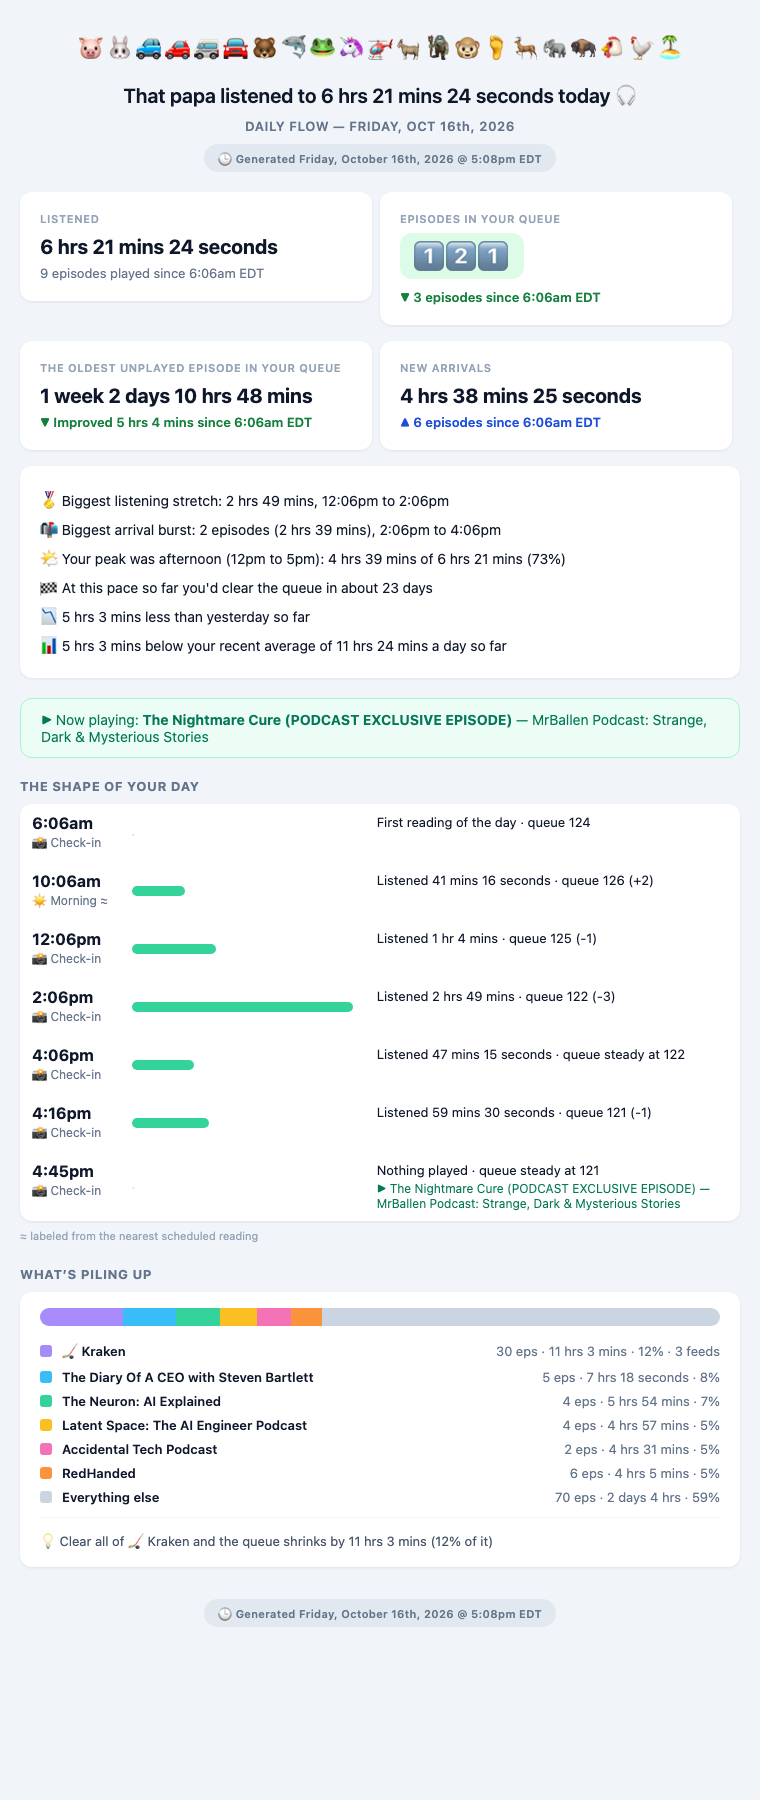
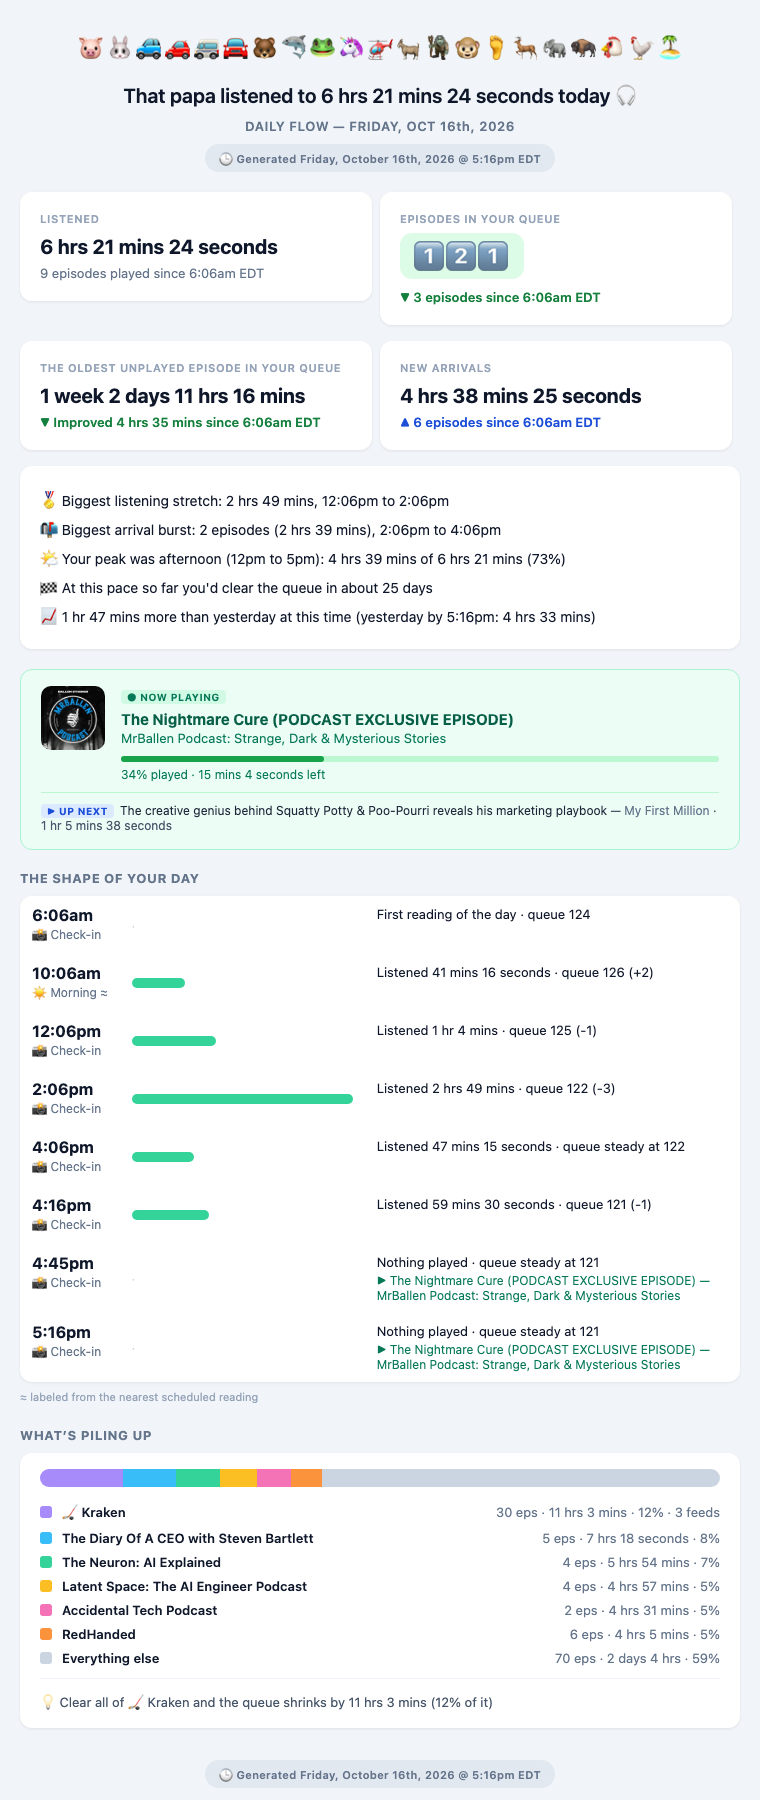
Flow web report: a richer Now playing card, and comparisons at the same time of day
Now playing gets the artwork, a linked title and show, a progress bar with
time left, and Up next. The yesterday and usual-pace lines compare with earlier
days at the same point in the day instead of against their whole days, and an
average is only shown once there are two earlier days to average.

diff --git a/flow.py b/flow.py
@@ -113,7 +113,14 @@ def snapshot_from_run(d, label, source="live"):
         "played_seconds": int(round(since["total_seconds"])),
     }
     if np:
-        snap["now_playing"] = {"title": np.get("title"), "podcast": np.get("podcast")}
+        snap["now_playing"] = {k: np.get(k) for k in (
+            "title", "podcast", "episode_url", "podcast_url", "artwork_url",
+            "elapsed_seconds", "duration_seconds", "remaining_fmt") if np.get(k) is not None}
+    nxt = rr._next_up_episode(d) if d["queue"].get("episodes") else None
+    if nxt:
+        snap["up_next"] = {k: nxt.get(k) for k in (
+            "title", "podcast", "episode_url", "podcast_url", "artwork_url", "duration_fmt")
+            if nxt.get(k) is not None}
     shows = queue_by_show(d)
     if shows:
         snap["by_show"] = shows
@@ -243,11 +250,14 @@ def summarize_day(history, day, tz=None):
     out["by_part"] = listening_by_part(windows, tz)
     first_dt, last_dt = parse_utc(first["ts"]), parse_utc(last["ts"])
     out["elapsed_hours"] = (last_dt - first_dt).total_seconds() / 3600
-    out["yesterday_listened"], out["recent_average"] = day_context(history, day, tz)
+    out["cutoff_snap"] = last
+    out["yesterday_listened"], out["recent_average"], out["recent_days"] = day_context(
+        history, day, tz, cutoff=day_offset(last, tz))
     shows = [sn for sn in snaps if sn.get("by_show")]
     out["by_show_snapshot"] = shows[-1] if shows else None
     playing = [sn for sn in snaps if sn.get("now_playing")]
     out["now_playing"] = playing[-1]["now_playing"] if playing else None
+    out["up_next"] = (playing[-1].get("up_next") if playing else None)
     return out
 
 
@@ -295,15 +305,28 @@ def listening_by_part(windows, tz=None):
     return sorted(rows, key=lambda r: -r["seconds"])
 
 
-def day_context(history, day, tz=None):
-    """(yesterday's listening, average listening over the 7 days before), each
-    None when there is no data for it."""
+def day_offset(snap, tz=None):
+    """Seconds into the flow day (which starts at 4am local) a reading was taken."""
+    dt = local_dt(snap, tz)
+    start = datetime.datetime.combine(day_of(dt), datetime.time(DAY_STARTS_HOUR), tzinfo=dt.tzinfo)
+    return (dt - start).total_seconds()
+
+
+def day_context(history, day, tz=None, cutoff=None):
+    """How earlier days compare at the same point in the day. Returns
+    (yesterday's listening by `cutoff`, average listening by `cutoff` over the
+    earlier days that have data, how many days that average covers); each None
+    or 0 when there is nothing to compare with. `cutoff` is seconds into the
+    day, so a half-finished day is compared with half-finished days."""
     def listened(d):
         snaps = day_snapshots(history, d, tz)
-        return sum(s["played_seconds"] for s in snaps[1:]) if snaps else None
+        if not snaps:
+            return None
+        return sum(s["played_seconds"] for s in snaps[1:]
+                   if cutoff is None or day_offset(s, tz) <= cutoff)
     yesterday = listened(day - datetime.timedelta(days=1))
     prior = [x for x in (listened(day - datetime.timedelta(days=i)) for i in range(1, 8)) if x is not None]
-    return yesterday, (sum(prior) / len(prior) if prior else None)
+    return yesterday, (sum(prior) / len(prior) if prior else None), len(prior)
 
 
 def week_days(anchor_day):
@@ -542,21 +565,25 @@ def pace_line(s):
                   f"{days:.0f} day{'' if round(days) == 1 else 's'}")
 
 
-def vs_lines(s):
-    """Plain comparisons: against yesterday and against the recent average."""
-    so_far = "" if s["closed"] else " so far"
+def vs_lines(s, tz=None):
+    """Plain comparisons with earlier days at the same point in the day, so a
+    half-finished day is never held against a whole one."""
+    by = f"by {clock(s['cutoff_snap'], tz)}"
     lines = []
     y = s.get("yesterday_listened")
     if y is not None:
         diff = s["listened_seconds"] - y
-        lines.append(("📈" if diff >= 0 else "📉",
-                      f"{dur_n(abs(diff))} {'more' if diff >= 0 else 'less'} than yesterday{so_far}"
-                      if round(diff) else f"Same as yesterday{so_far}"))
-    avg = s.get("recent_average")
-    if avg is not None:
+        if round(diff):
+            lines.append(("📈" if diff > 0 else "📉",
+                          f"{dur_n(abs(diff))} {'more' if diff > 0 else 'less'} than yesterday at this time "
+                          f"(yesterday {by}: {dur_n(y)})"))
+        else:
+            lines.append(("📊", f"Right on yesterday's pace (yesterday {by}: {dur_n(y)})"))
+    avg, n = s.get("recent_average"), s.get("recent_days", 0)
+    if avg is not None and n >= 2:
         diff = s["listened_seconds"] - avg
-        lines.append(("📊", f"{dur_n(abs(diff))} {'above' if diff >= 0 else 'below'} your recent average of "
-                            f"{dur_n(avg)} a day{so_far}"))
+        lines.append(("📊", f"{dur_n(abs(diff))} {'above' if diff >= 0 else 'below'} your usual at this time "
+                            f"(average of {n} days {by}: {dur_n(avg)})"))
     return lines
 
 
@@ -589,7 +616,7 @@ def highlights(s, tz=None):
         out.append(("🤫" if mid_dash else "😴", f"{'Quiet stretch mid-Dash' if mid_dash else 'Nap time'}: {dur_n(span)} with nothing played, "
                           f"{local_dt({'ts': x}, tz).strftime('%-I:%M%p').lower()} to "
                           f"{local_dt({'ts': y}, tz).strftime('%-I:%M%p').lower()}"))
-    for icon, line in vs_lines(s):
+    for icon, line in vs_lines(s, tz):
         out.append((icon, line))
     return out
 
@@ -986,6 +1013,57 @@ def piling_up_html(s):
     )
 
 
+def _link(text, url, color="inherit", weight=None):
+    inner = html.escape(text or "")
+    if not url:
+        return inner
+    style = f"color:{color};text-decoration:none;" + (f"font-weight:{weight};" if weight else "")
+    return f'<a href="{html.escape(url)}" target="_blank" style="{style}">{inner}</a>'
+
+
+def now_playing_card_html(np, up_next=None):
+    """The episode playing right now: artwork, linked title and show, how far
+    through it you are, and what is next."""
+    if not np:
+        return ""
+    art = (f'<img src="{html.escape(np["artwork_url"])}" width="64" height="64" '
+           'style="border-radius:10px;display:block;" alt="">') if np.get("artwork_url") else ""
+    if np.get("artwork_url") and (np.get("episode_url") or np.get("podcast_url")):
+        art = f'<a href="{html.escape(np.get("episode_url") or np.get("podcast_url"))}" target="_blank">{art}</a>'
+    progress = ""
+    dur_s, el_s = np.get("duration_seconds") or 0, np.get("elapsed_seconds") or 0
+    if dur_s > 0:
+        pct = max(0, min(100, 100 * el_s / dur_s))
+        left = np.get("remaining_fmt") or ""
+        progress = (
+            '<div style="height:6px;border-radius:3px;background:#bbf7d0;margin-top:10px;">'
+            f'<div style="height:6px;border-radius:3px;background:#16a34a;width:{pct:.0f}%;"></div></div>'
+            f'<div style="font-size:12px;color:#047857;margin-top:5px;">{pct:.0f}% played'
+            + (f" · {html.escape(left)} left" if left else "") + '</div>'
+        )
+    nxt = ""
+    if up_next and up_next.get("title"):
+        nxt = (
+            '<div style="font-size:12px;color:#475569;margin-top:10px;padding-top:10px;border-top:1px solid #bbf7d0;">'
+            '<span style="display:inline-block;background:#dbeafe;color:#1d4ed8;font-size:10px;font-weight:700;'
+            'letter-spacing:0.5px;border-radius:4px;padding:1px 6px;margin-right:6px;">▶ UP NEXT</span>'
+            f'{_link(up_next["title"], up_next.get("episode_url"), "#1e293b")} — '
+            f'{_link(up_next.get("podcast"), up_next.get("podcast_url"), "#64748b")}'
+            + (f' · {html.escape(up_next["duration_fmt"])}' if up_next.get("duration_fmt") else "") + '</div>'
+        )
+    return (
+        '<div style="background:#ecfdf5;border:1px solid #a7f3d0;border-radius:12px;padding:16px 20px;margin-bottom:20px;">'
+        '<div style="display:flex;gap:16px;align-items:flex-start;">'
+        f'<div style="flex:0 0 64px;">{art}</div>'
+        '<div style="flex:1;min-width:0;">'
+        f'{rr.now_playing_badge()}'
+        f'<div style="font-size:15px;font-weight:700;margin-top:6px;color:#065f46;">'
+        f'{_link(np.get("title"), np.get("episode_url"), "#065f46")}</div>'
+        f'<div style="font-size:13px;margin-top:2px;color:#047857;">{_link(np.get("podcast"), np.get("podcast_url"), "#047857")}</div>'
+        f'{progress}</div></div>{nxt}</div>'
+    )
+
+
 def render_day_html(s, tz=None, generated=None, d=None):
     title = f"Daily Flow — {pretty_day_full(s['day'])}"
     if not s["snapshots"]:
@@ -1007,13 +1085,11 @@ def render_day_html(s, tz=None, generated=None, d=None):
     if hl:
         items = "".join(f'<div style="margin:6px 0;font-size:14px;">{icon} {html.escape(line)}</div>' for icon, line in hl)
         parts.append(_white_card(items, 20))
-    if s.get("now_playing"):
-        np = s["now_playing"]
-        parts.append(
-            '<div style="background:#ecfdf5;border:1px solid #a7f3d0;border-radius:12px;padding:12px 20px;'
-            f'margin-bottom:20px;font-size:14px;color:#047857;">▶ Now playing: <b>{html.escape(np.get("title") or "")}</b>'
-            f' — {html.escape(np.get("podcast") or "")}</div>'
-        )
+    np, nxt = s.get("now_playing"), s.get("up_next")
+    if d and d.get("now_playing"):
+        np = d["now_playing"]
+        nxt = rr._next_up_episode(d) if d["queue"].get("episodes") else None
+    parts.append(now_playing_card_html(np, nxt))
     parts.append(timeline_html(s, tz))
     parts.append(piling_up_html(s))
     return _page(title, "".join(parts), day_headline(s), generated, tz,

diff --git a/tests/test_flow.py b/tests/test_flow.py
@@ -291,12 +291,53 @@ class StoryTests(unittest.TestCase):
         self.assertEqual(w[1]["queue_delta"], -2)
         self.assertEqual(self.s["biggest_listen"]["played"], 10800)
 
-    def test_context_compares_to_yesterday_and_recent_average(self):
+    def test_context_compares_to_yesterday_at_the_same_time_of_day(self):
         self.assertEqual(self.s["yesterday_listened"], 3000)
-        self.assertEqual(self.s["recent_average"], 3000)
-        lines = " ".join(line for _, line in flow.vs_lines(self.s))
-        self.assertIn("more than yesterday", lines)
-        self.assertIn("above your recent average", lines)
+        lines = " ".join(line for _, line in flow.vs_lines(self.s, NY))
+        self.assertIn("more than yesterday at this time (yesterday by 10:00pm: 50 mins)", lines)
+        self.assertNotIn("your usual", lines)  # one earlier day is not an average
+
+    def test_an_average_needs_two_earlier_days_and_stops_at_the_same_hour(self):
+        history = [
+            snap("2026-10-14T08:00", "morning"),
+            snap("2026-10-14T12:00", "manual", played_seconds=3600),
+            snap("2026-10-14T21:00", "evening", played_seconds=36000),   # after today's cutoff: ignored
+            snap("2026-10-15T08:00", "morning"),
+            snap("2026-10-15T12:00", "manual", played_seconds=7200),
+            snap("2026-10-15T21:00", "evening", played_seconds=36000),   # ignored too
+            snap("2026-10-16T08:00", "morning"),
+            snap("2026-10-16T12:00", "manual", played_seconds=1800),
+        ]
+        s = flow.summarize_day(history, datetime.date(2026, 10, 16), NY)
+        self.assertEqual(s["yesterday_listened"], 7200)
+        self.assertEqual(s["recent_days"], 2)
+        self.assertEqual(s["recent_average"], 5400)
+        lines = " ".join(line for _, line in flow.vs_lines(s, NY))
+        self.assertIn("1 hr 30 mins less than yesterday at this time (yesterday by 12:00pm: 2 hrs)", lines)
+        self.assertIn("1 hr below your usual at this time (average of 2 days by 12:00pm: 1 hr 30 mins)", lines)
+
+    def test_now_playing_card_has_artwork_links_progress_and_up_next(self):
+        np = {"title": "The Nightmare Cure", "podcast": "MrBallen", "episode_url": "https://e/1",
+              "podcast_url": "https://p/1", "artwork_url": "https://a/1.jpg",
+              "elapsed_seconds": 600, "duration_seconds": 1200, "remaining_fmt": "10 mins"}
+        nxt = {"title": "Next One", "podcast": "Other Show", "episode_url": "https://e/2",
+               "podcast_url": "https://p/2", "duration_fmt": "45 mins"}
+        card = flow.now_playing_card_html(np, nxt)
+        for needle in ('src="https://a/1.jpg"', 'href="https://e/1"', 'href="https://p/1"',
+                       "50% played", "10 mins left", "UP NEXT", 'href="https://e/2"', "45 mins"):
+            self.assertIn(needle, card)
+        self.assertEqual(flow.now_playing_card_html(None), "")
+        self.assertIn("NOW PLAYING", flow.now_playing_card_html({"title": "Only a title"}))
+
+    def test_snapshot_keeps_the_now_playing_details(self):
+        d = minimal_run_json()
+        d["now_playing"] = {"title": "T", "podcast": "P", "episode_url": "u", "artwork_url": "a",
+                            "elapsed_seconds": 5, "duration_seconds": 10, "remaining_fmt": "5 seconds"}
+        d["queue"]["episodes"] = [{"title": "Q", "podcast": "P2", "duration_fmt": "5 mins",
+                                   "pubdate": "2026-10-10T07:00:00", "in_progress": False}]
+        sn = flow.snapshot_from_run(d, "pulse")
+        self.assertEqual(sn["now_playing"]["artwork_url"], "a")
+        self.assertEqual(sn["up_next"]["title"], "Q")
 
     def test_a_quiet_stretch_inside_a_dash_is_not_called_nap_time(self):
         history = [
